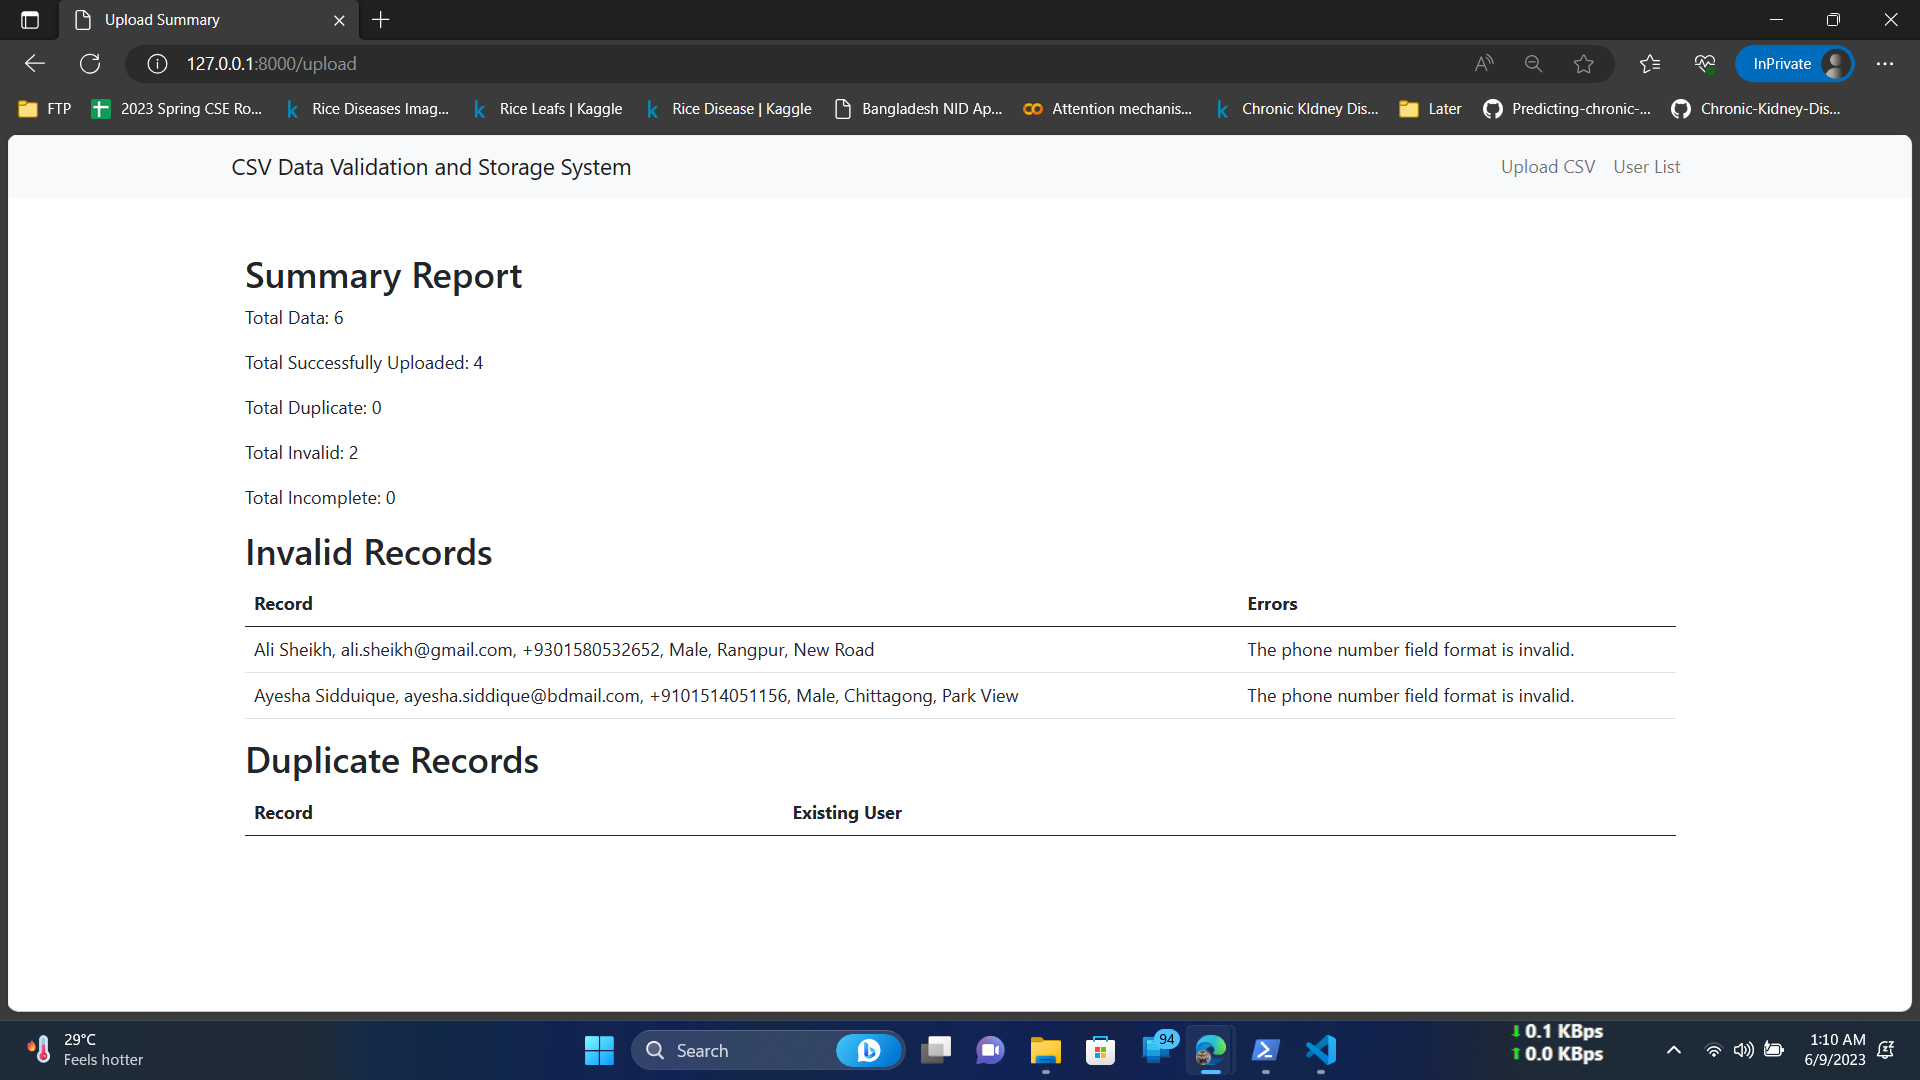
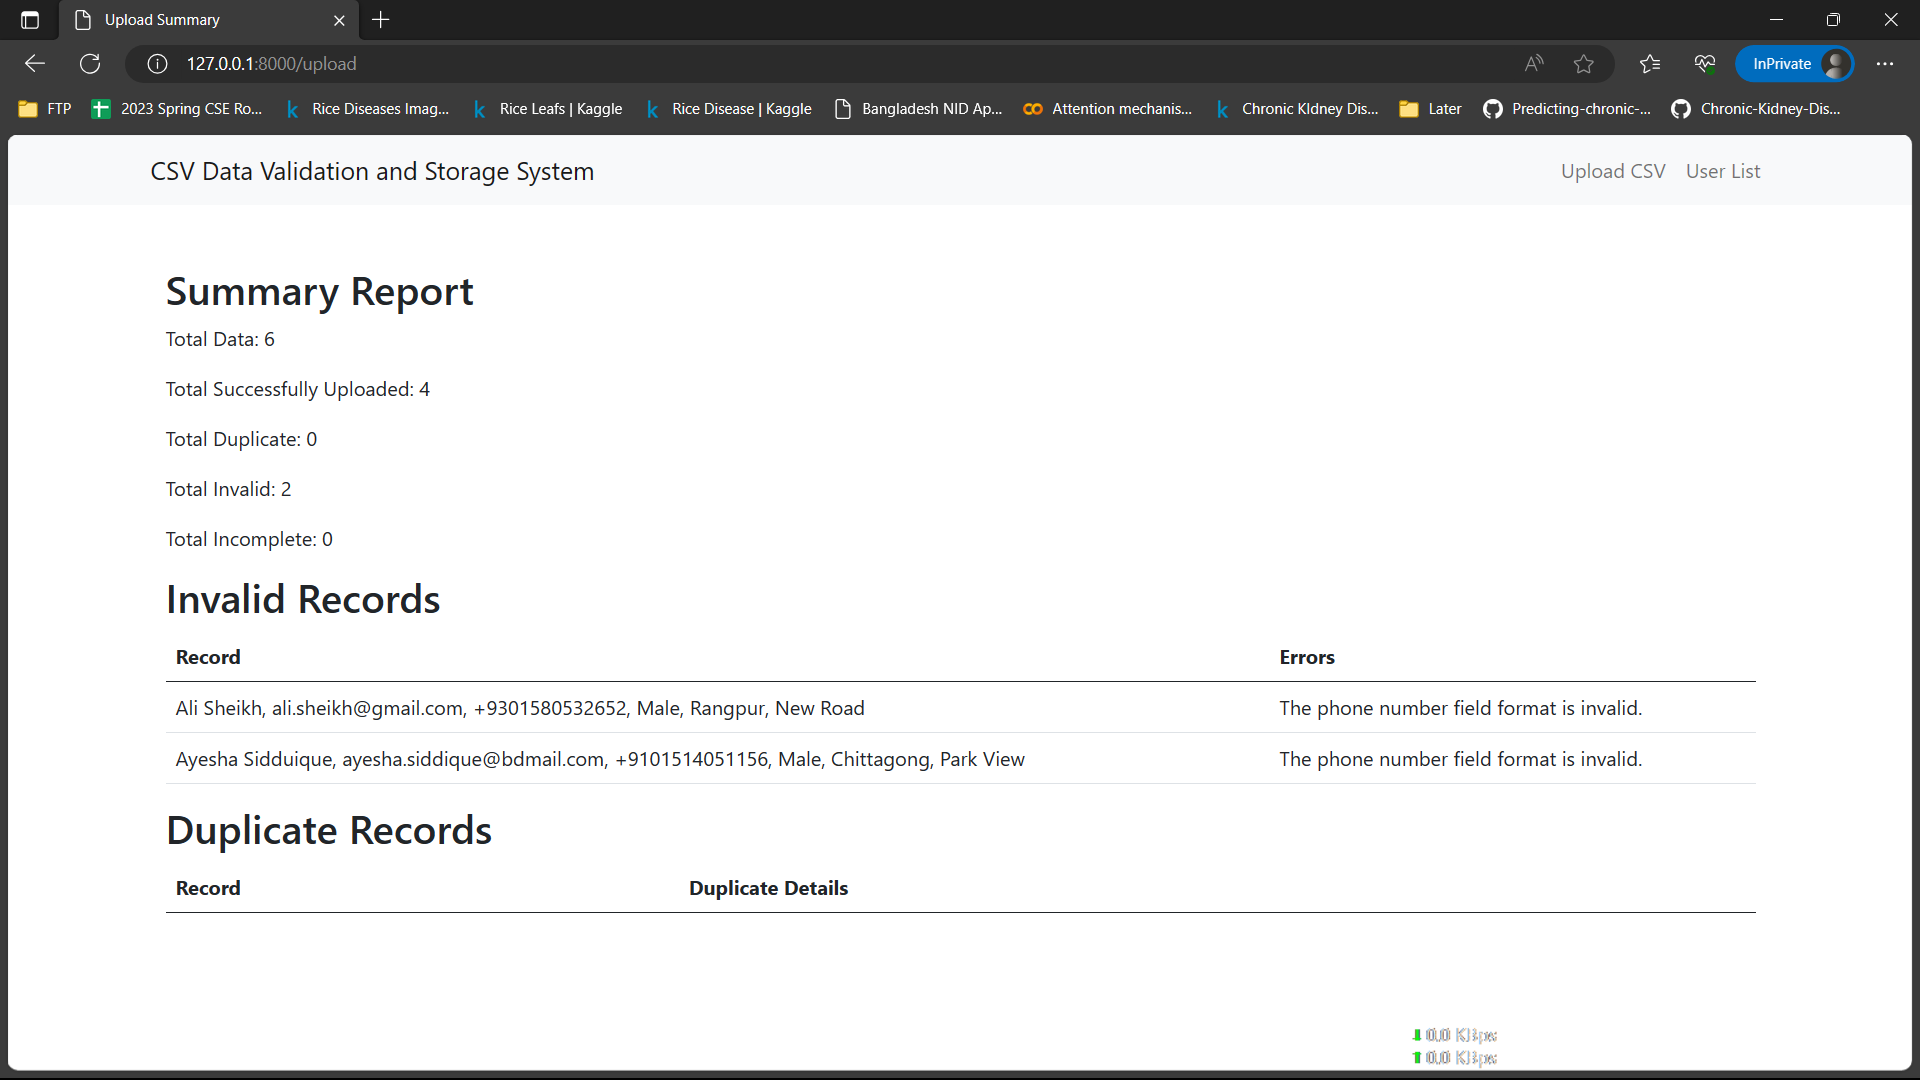
master

diff --git a/app/Http/Controllers/UserController.php b/app/Http/Controllers/UserController.php
@@ -43,6 +43,21 @@ class UserController extends Controller
         foreach ($csvData as $row) {
             $data = array_combine($headers, $row);
 
+            // Check for duplicate records
+            $existingUser = User::where('email', $data['email'])
+                ->orWhere('phone_number', $data['phone_number'])
+                ->first();
+
+            // If a duplicate record is found, store it and continue to the next row
+            if ($existingUser) {
+                $duplicateRecords[] = [
+                    'record' => $data,
+                    'existing_user' => $existingUser,
+                ];
+                $totalDuplicate++;
+                continue;
+            }
+
             // Validate the data for each row
             $validator = Validator::make($data, [
                 'name' => 'required',
@@ -63,21 +78,6 @@ class UserController extends Controller
                 continue;
             }
 
-            // Check for duplicate records
-            $existingUser = User::where('email', $data['email'])
-                ->orWhere('phone_number', $data['phone_number'])
-                ->first();
-
-            // If a duplicate record is found, store it and continue to the next row
-            if ($existingUser) {
-                $duplicateRecords[] = [
-                    'record' => $data,
-                    'existing_user' => $existingUser,
-                ];
-                $totalDuplicate++;
-                continue;
-            }
-
             // Create a new user record
             User::create($data);
             $totalUploaded++;
@@ -95,6 +95,7 @@ class UserController extends Controller
         // Return the summary view with the relevant data
         return view('summary', compact('summary', 'invalidRecords', 'duplicateRecords'));
     }
+
 
     public function userList(Request $request)
     {

diff --git a/resources/views/summary.blade.php b/resources/views/summary.blade.php
@@ -41,17 +41,25 @@
             <thead>
                 <tr>
                     <th>Record</th>
-                    <th>Existing User</th>
+                    <th>Duplicate Details</th>
                 </tr>
             </thead>
             <tbody>
                 @foreach($duplicateRecords as $record)
                 <tr>
                     <td>{{ implode(', ', $record['record']) }}</td>
-                    <td>{{ implode(', ', $record['existing_user']->toArray()) }}</td>
+                    <td>
+                        @if ($record['existing_user']->email === $record['record']['email'])
+                            Email already exists.
+                        @endif
+                        @if ($record['existing_user']->phone_number === $record['record']['phone_number'])
+                            Phone number already exists.
+                        @endif
+                    </td>
                 </tr>
                 @endforeach
             </tbody>
         </table>
+
     </div>
 @endsection
